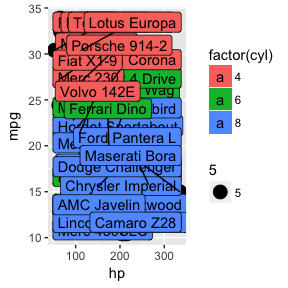
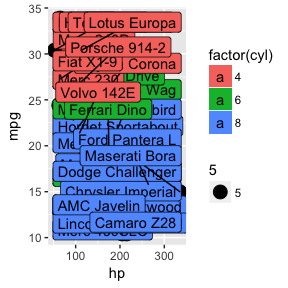
set seed for plot.

Changed region(s): [[0.1562, 0.0312, 0.6562, 0.5], [0.1562, 0.5, 0.6562, 0.8125]]

diff --git a/docs/articles/class-1.html b/docs/articles/class-1.html
@@ -92,7 +92,7 @@
       <h1>Class 1: Overview and data tidying</h1>
                         <h4 class="author">Jay Hesselberth</h4>
             
-            <h4 class="date">2017-12-03</h4>
+            <h4 class="date">2017-12-04</h4>
           </div>
 
     
@@ -133,11 +133,11 @@ readxl<span class="op">::</span><span class="kw"><a href="http://www.rdocumentat
 <p>The Console panel enables interactive analysis.</p>
 <p>The <code>tidyverse</code> is a collection of libraries that enable efficient data processing and visualization. You will probably start many analyses by loading the <code>tidyverse</code> library. This library loads a number of other libraries that are useful for data processing and plotting.:</p>
 <div class="sourceCode"><pre class="sourceCode r"><code class="sourceCode r"><span class="kw">library</span>(tidyverse)
-<span class="co">#&gt; ── Attaching packages ───────────────────────────────────────────────────────────────────────────────────────────────────────────────────── tidyverse 1.2.1 ──</span>
+<span class="co">#&gt; ── Attaching packages ──────────────────────────────────────────────────────────────────────────── tidyverse 1.2.1 ──</span>
 <span class="co">#&gt; ✔ tibble  1.3.4     ✔ purrr   0.2.4</span>
 <span class="co">#&gt; ✔ tidyr   0.7.2     ✔ stringr 1.2.0</span>
 <span class="co">#&gt; ✔ readr   1.1.1     ✔ forcats 0.2.0</span>
-<span class="co">#&gt; ── Conflicts ──────────────────────────────────────────────────────────────────────────────────────────────────────────────────────── tidyverse_conflicts() ──</span>
+<span class="co">#&gt; ── Conflicts ─────────────────────────────────────────────────────────────────────────────── tidyverse_conflicts() ──</span>
 <span class="co">#&gt; ✖ dplyr::filter() masks stats::filter()</span>
 <span class="co">#&gt; ✖ dplyr::lag()    masks stats::lag()</span></code></pre></div>
 <p>This one invocation loads several libraries including <code>dplyr</code> and <code>ggplot2</code>.</p>
@@ -284,6 +284,8 @@ xx <span class="op">%&gt;%</span><span class="st"> </span><span class="kw">sprea
 <span class="co">#&gt; 11    wt           3.325</span></code></pre></div>
 <p>And wide format is useful for plotting.</p>
 <div class="sourceCode"><pre class="sourceCode r"><code class="sourceCode r"><span class="kw">library</span>(ggrepel)
+
+<span class="kw">set.seed</span>(<span class="dv">42</span>)
 <span class="kw">ggplot</span>(mtcars_tbl) <span class="op">+</span>
 <span class="st">  </span><span class="kw">geom_point</span>(<span class="kw">aes</span>(hp, mpg, <span class="dt">size =</span> <span class="dv">5</span>)) <span class="op">+</span>
 <span class="st">  </span><span class="kw"><a href="http://www.rdocumentation.org/packages/ggrepel/topics/geom_text_repel">geom_label_repel</a></span>(<span class="kw">aes</span>(hp, mpg, <span class="dt">fill =</span> <span class="kw">factor</span>(cyl), <span class="dt">label =</span> name))</code></pre></div>
